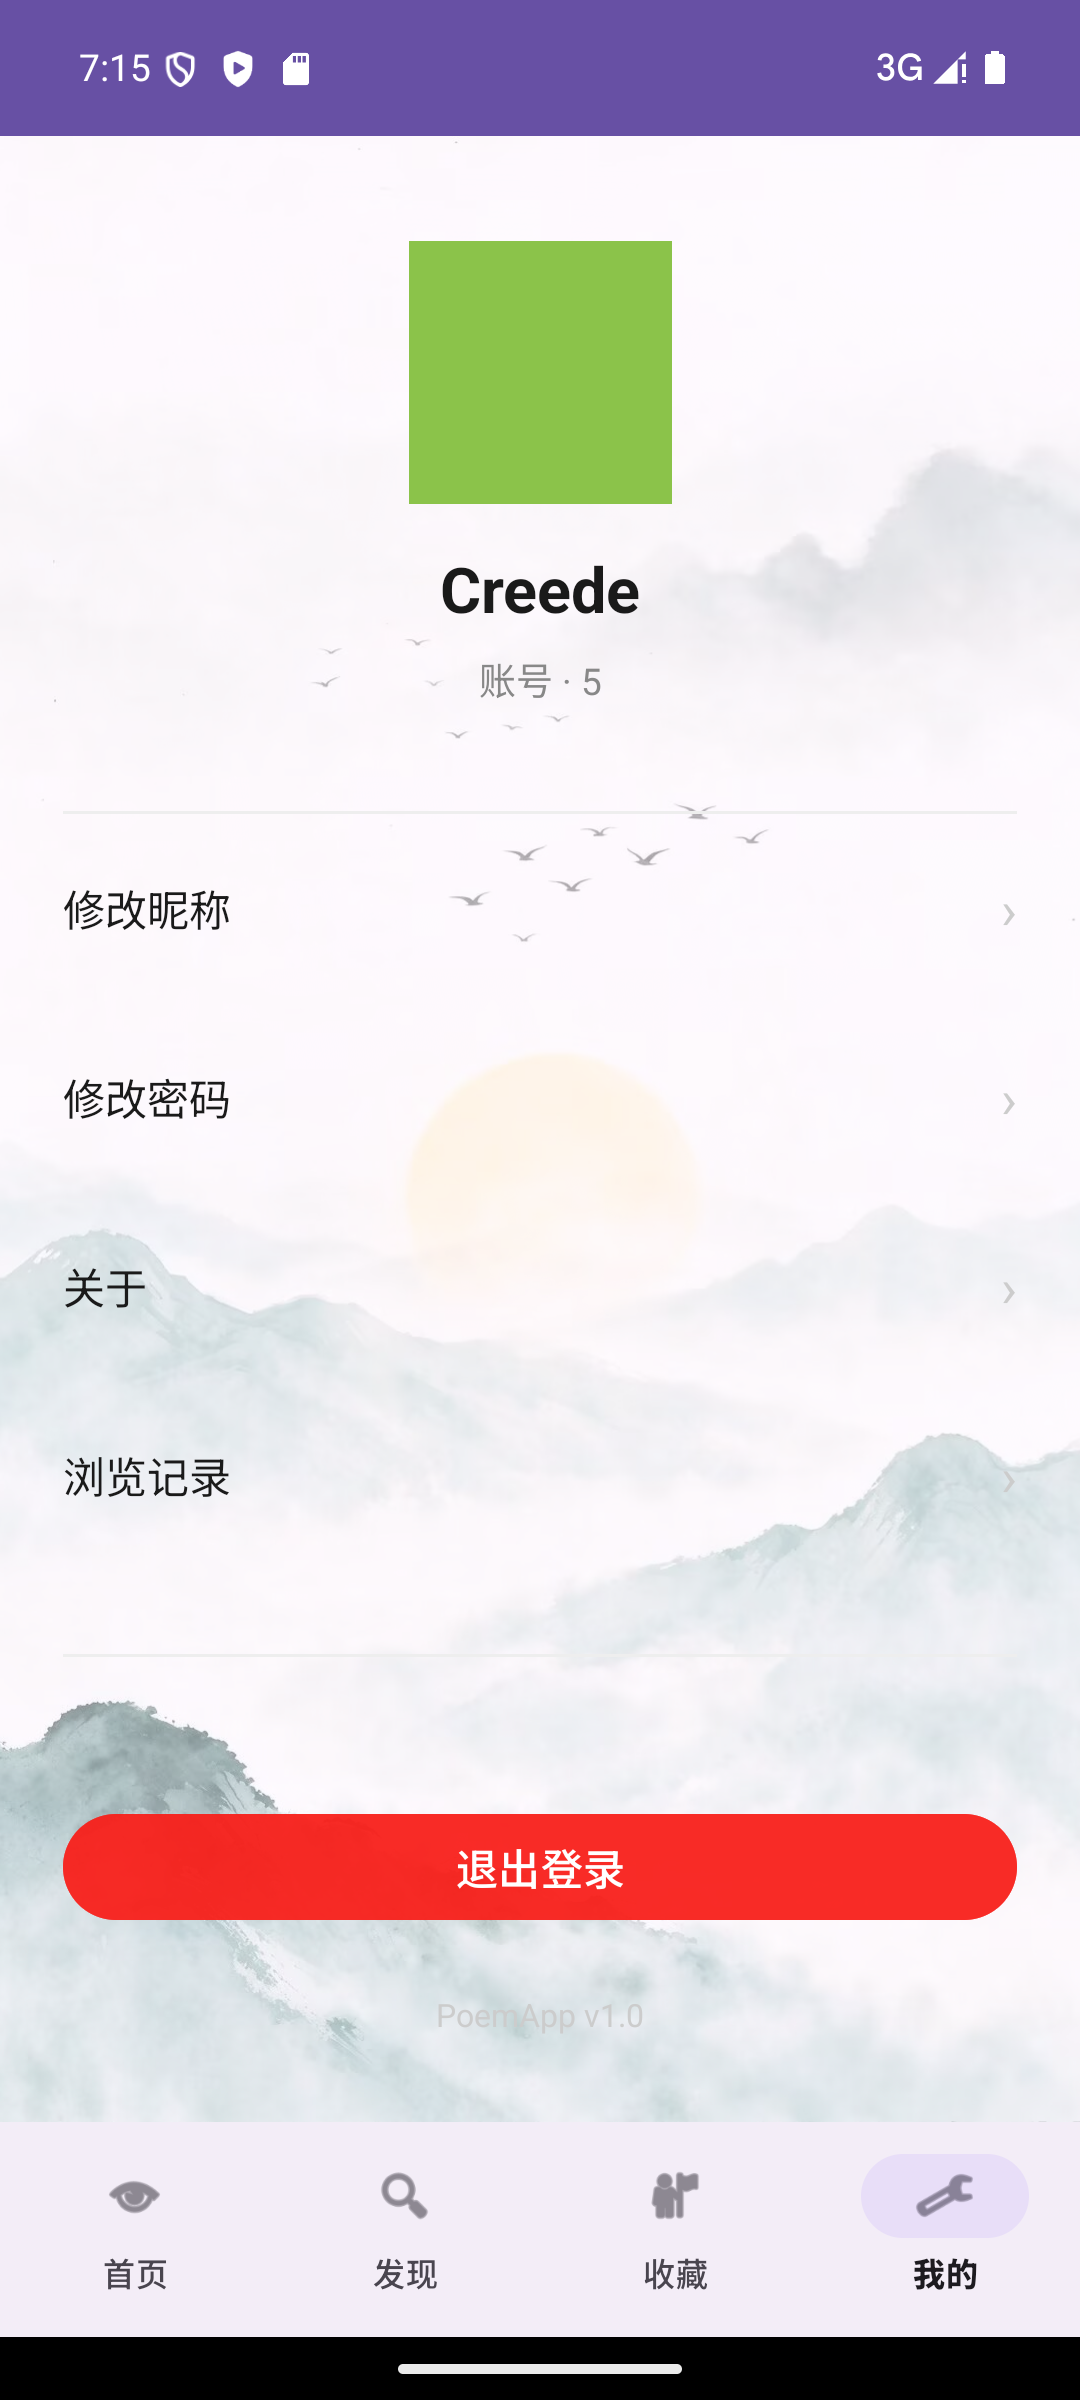
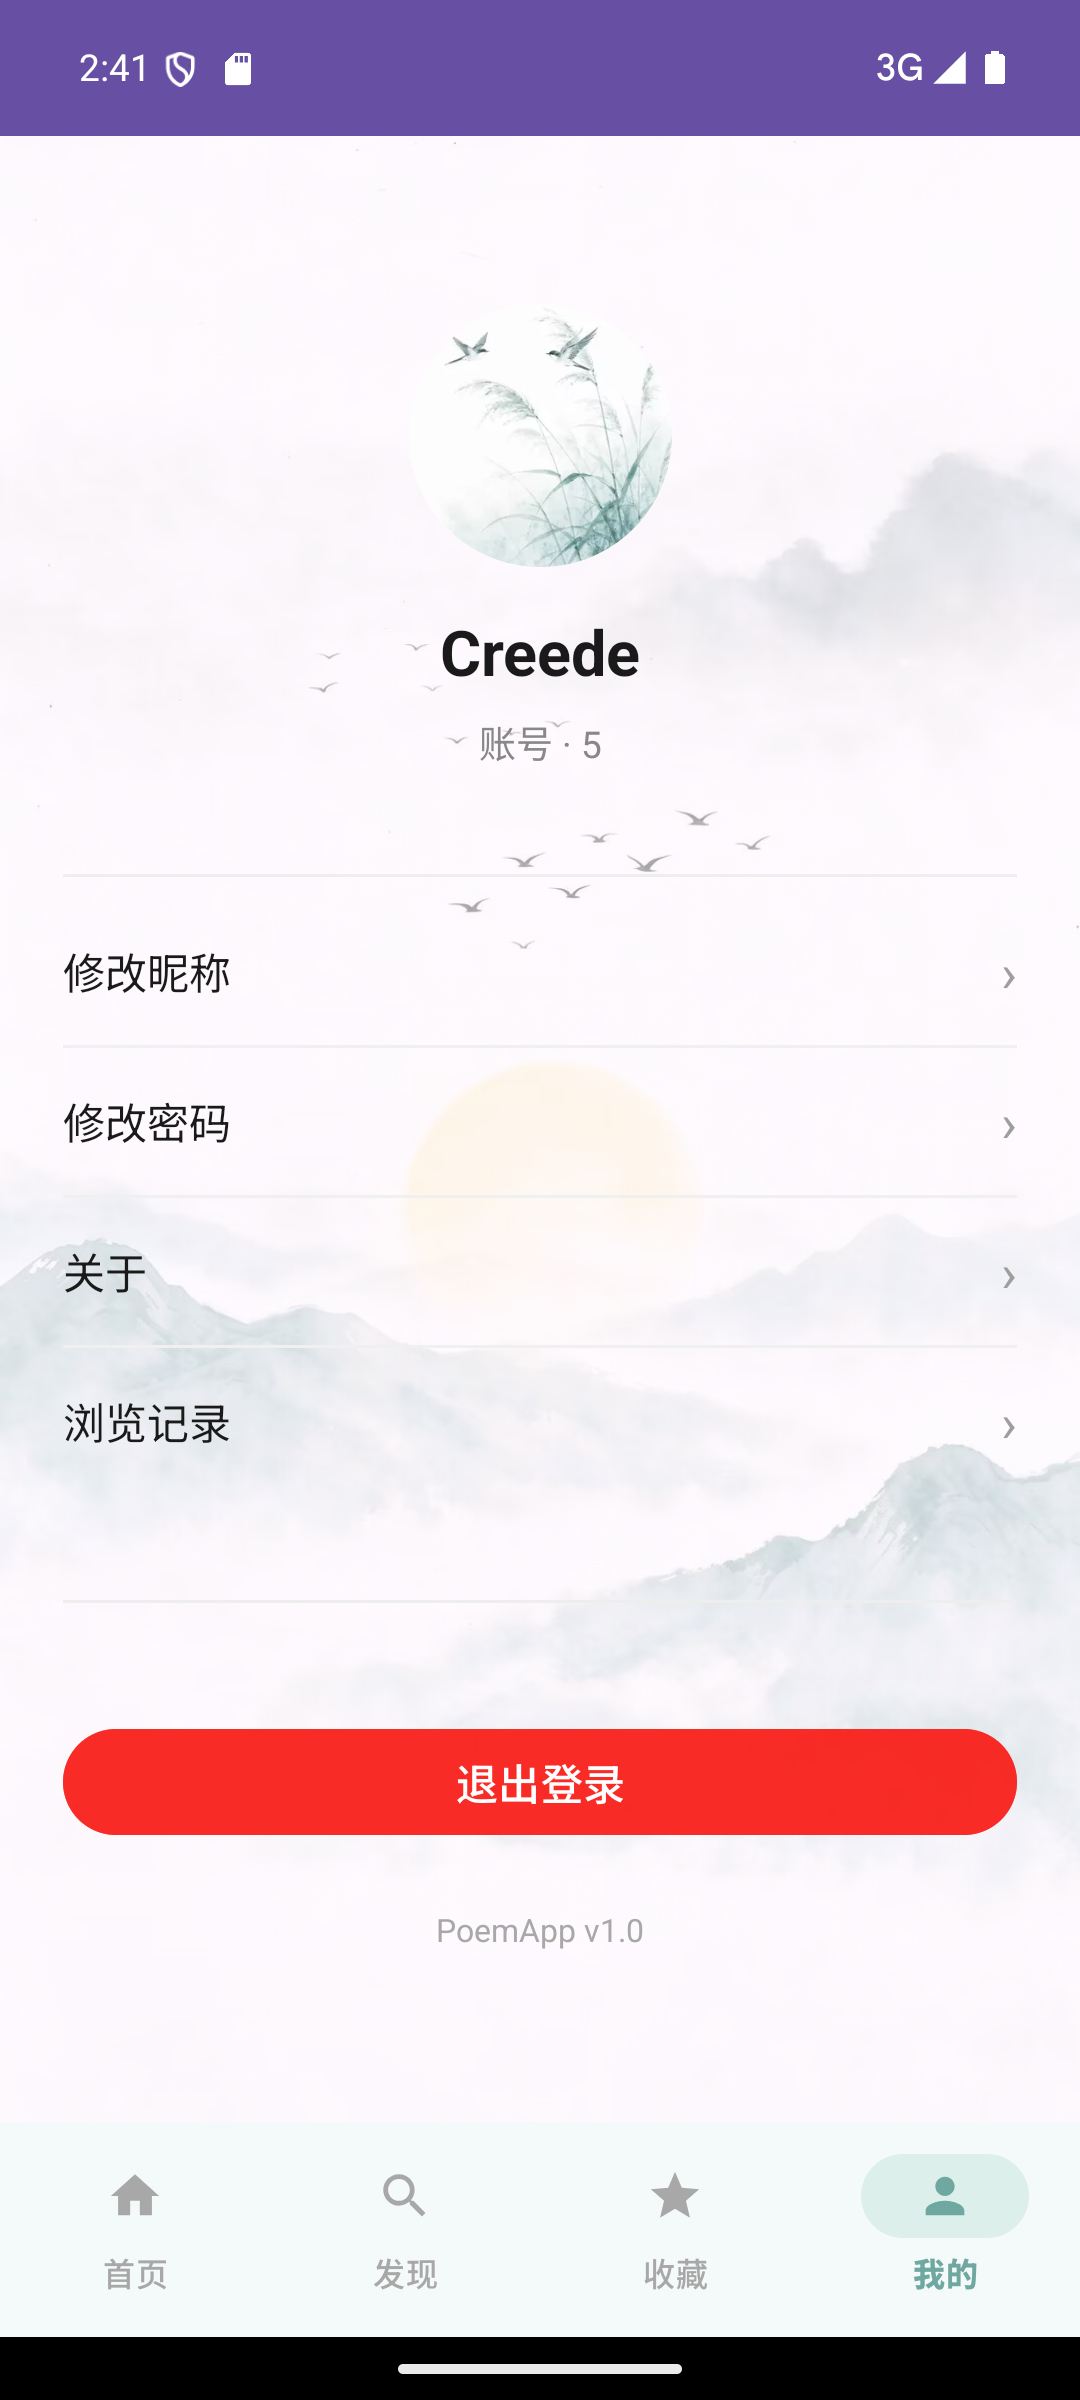
README 补充头像功能说明、重截我的页与选择头像截图

diff --git a/README.md b/README.md
@@ -27,7 +27,8 @@
   - **收藏功能**（详情页一键收藏 / 取消，收藏页实时刷新，多用户隔离）
   - **浏览历史**（进入详情页自动记录，按最近浏览排序，同一首去重）
   - **原文朗读**（调用系统 TextToSpeech 朗读诗词原文，支持中文语音）
-  - 我的页面（**昵称展示与修改**、修改密码、关于、退出登录）
+  - 我的页面（**头像选择**、**昵称展示与修改**、修改密码、关于、退出登录）
+  - 预设头像库（6 张统一风格青绿插画，点选 + 边框标记 + 确认生效）
 - **界面**
   - 约束布局（ConstraintLayout）
 
@@ -53,13 +54,17 @@
 |---|---|
 | ![详情](screenshots/detail.png) | ![收藏](screenshots/favorite.png) |
 
-| 我的（昵称 / 改密码 / 关于 / 历史） | 浏览历史 |
+| 我的（头像 / 昵称 / 改密码 / 关于） | 选择头像（边框标记 + 确认生效） |
 |---|---|
-| ![我的](screenshots/profile.png) | ![浏览历史](screenshots/history.png) |
+| ![我的](screenshots/profile.png) | ![选择头像](screenshots/avatar_picker.png) |
 
-| 关于 | 退出登录（二次确认） |
+| 浏览历史 | 关于 |
 |---|---|
-| ![关于](screenshots/about.png) | ![退出确认](screenshots/logout-dialog.png) |
+| ![浏览历史](screenshots/history.png) | ![关于](screenshots/about.png) |
+
+| 退出登录（二次确认） |  |
+|---|---|
+| ![退出确认](screenshots/logout-dialog.png) |  |
 
 ---
 
@@ -136,6 +141,7 @@ app/src/main/
 | 2026-11-24 | 完成关键词搜索页（like 模糊查询，实时搜索）；详情页新增主题标签 |
 | 2026-11-26 | 修复注册重复提交与空用户名问题；登录页预填改为 onResume；补齐注册页输入提示与密码可见切换 |
 | 2026-11-27 | 界面美化：登录/注册青绿底图、各页淡色背景、详情页头图、卡片改纯白、新增发现页 |
+| 2026-11-27 | 完成头像功能（users 加 avatar 列、6 张预设头像、选择弹窗、确定生效）；底部导航换语义图标与淡青配色 |
 
 ---
 
